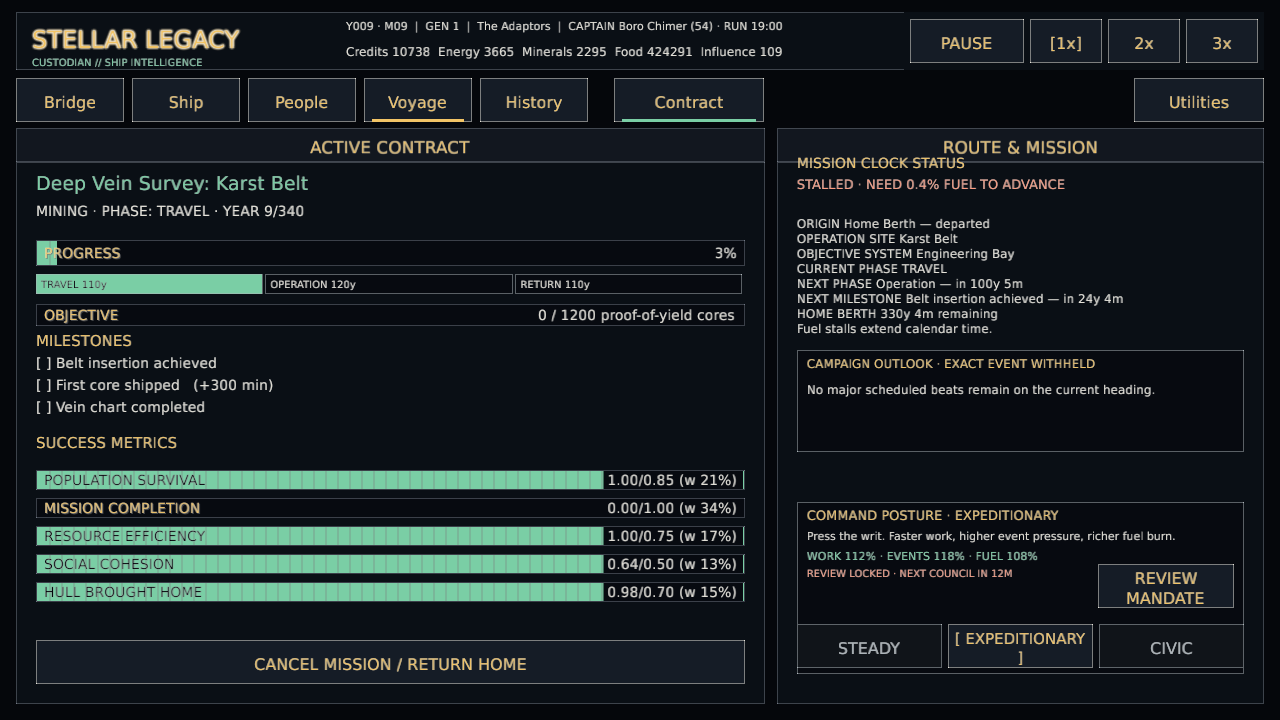
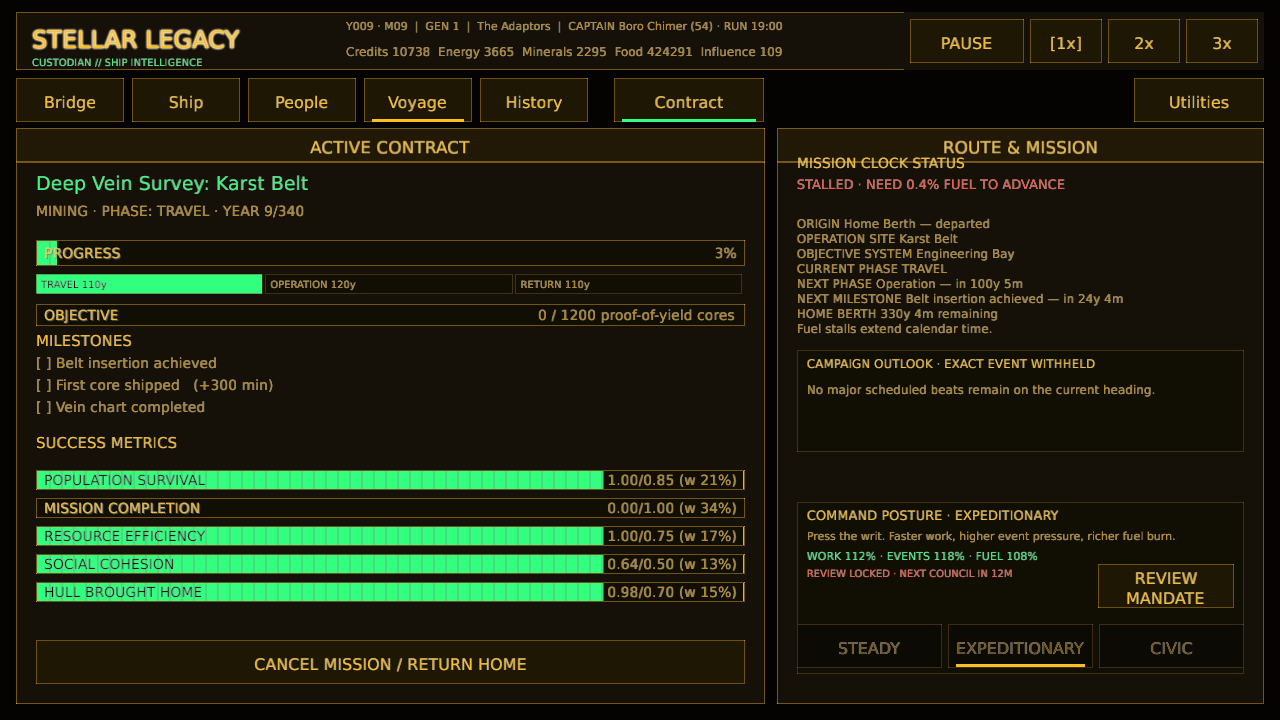
The council explains what each heading costs (command posture UX)
Phone policy controls offered the current posture again and did not explain
why alternatives were locked. Put a comparison behind a visible voyage
control, identify the current policy, explain the baseline and annual social
tradeoffs, and show the remaining commitment before proposing a change.
Desktop policy controls use the shared selection marker. Availability and
notifications share the same remaining-month calculation.

Five command tests and the source-size check pass; Clippy is warning-free.
Reviewed phone comparison and desktop captures. The no-argument publisher
passed Windows/WebGL packaging, Preview deployment and packaged smoke checks.

diff --git a/src/ui/mobile/voyage.rs b/src/ui/mobile/voyage.rs
@@ -1,7 +1,7 @@
 use super::*;
 use crate::simulation::{contract, market};
 
-pub(super) fn build(ctx: &GameplayCtx<'_>, f: &mut Form) {
+pub(super) fn build(ctx: &GameplayCtx<'_>, f: &mut Form, section: &str) {
     let sim = ctx.sim;
     if sim.contract.is_none() {
         f.actions(
@@ -14,6 +14,11 @@ pub(super) fn build(ctx: &GameplayCtx<'_>, f: &mut Form) {
     }
     if ctx.screen == Screen::Market {
         trade(ctx, f);
+        return;
+    }
+    if section == "posture" {
+        f.section("Back to voyage", "");
+        posture(ctx, f);
         return;
     }
     if let Some(c) = &sim.contract {
@@ -35,7 +40,7 @@ pub(super) fn build(ctx: &GameplayCtx<'_>, f: &mut Form) {
                 if m.reached { "Reached" } else { "Ahead" }
             ));
         }
-        posture(ctx, f);
+        posture_summary(ctx, f);
         if contract::can_return_home(sim) {
             f.action("Review return home", true, UiAction::ReviewReturnHome);
         }
@@ -106,7 +111,7 @@ pub(super) fn build(ctx: &GameplayCtx<'_>, f: &mut Form) {
             UiAction::Refuel,
         );
         f.action("PROVISIONS REVIEWED", true, UiAction::ReviewProvisions);
-        posture(ctx, f);
+        posture_summary(ctx, f);
         let conflicts = contract::obligation_conflicts(sim, t);
         for obligation in &conflicts {
             f.text(&format!(
@@ -170,23 +175,56 @@ pub(super) fn build(ctx: &GameplayCtx<'_>, f: &mut Form) {
     }
 }
 
+fn posture_summary(ctx: &GameplayCtx<'_>, f: &mut Form) {
+    f.heading(&format!(
+        "Command posture · {}",
+        ctx.sim.command_posture.label()
+    ));
+    f.text(ctx.sim.command_posture.description());
+    f.section("Compare command postures", "posture");
+}
+
 fn posture(ctx: &GameplayCtx<'_>, f: &mut Form) {
     f.heading(&format!(
         "Command posture · {}",
         ctx.sim.command_posture.label()
     ));
     f.action("REVIEW MANDATE", true, UiAction::OpenHelp);
+    let wait = crate::simulation::command::review_wait_months(ctx.sim);
+    if wait > 0 {
+        f.text(&format!("Current posture is committed. Another proposal becomes available in {wait} months. Advance voyage time to reach the next review."));
+    } else if ctx.sim.contract.is_some() {
+        f.text("A ratified change commits the ship for 12 months. The captain may require a mandate review before accepting a proposal.");
+    } else {
+        f.text("Postures can change freely in port. The captain may require a mandate review before accepting a proposal.");
+    }
+    f.text("Percentages compare each posture with STEADY at 100%. Work applies during operations; fuel use applies during travel.");
     for p in CommandPosture::ALL {
-        f.text(&format!(
-            "{} · Work {:.0}% · Event chance {:.0}% · Fuel use {:.0}%",
+        let current = p == ctx.sim.command_posture;
+        f.heading(&format!(
+            "{}{}",
             p.label(),
+            if current { " · Current" } else { "" }
+        ));
+        f.text(p.description());
+        f.text(&format!(
+            "Work {:.0}% · Event chance {:.0}% · Fuel use {:.0}%",
             crate::simulation::command::objective_factor(p) * 100.0,
             crate::simulation::command::event_chance_factor(p) * 100.0,
             crate::simulation::command::fuel_burn_factor(p) * 100.0
         ));
+        f.text(match p {
+            CommandPosture::Steady => "No additional annual social adjustment.",
+            CommandPosture::Expeditionary => "Each year underway, this posture also reduces morale, unity and legacy loyalty.",
+            CommandPosture::Civic => "Each year underway, this posture also improves morale, unity, stability and legacy loyalty.",
+        });
         f.action(
-            &format!("Propose {}", p.label()),
-            crate::simulation::command::posture_change_allowed(ctx.sim),
+            &format!(
+                "{} {}",
+                if current { "Current:" } else { "Propose" },
+                p.label()
+            ),
+            !current && wait == 0,
             UiAction::SetPosture(p),
         );
     }

diff --git a/src/ui/contract_systems/outlook.rs b/src/ui/contract_systems/outlook.rs
@@ -65,9 +65,7 @@ pub(crate) fn draw_posture(
         draw_ui_text_ex(
             &format!(
                 "REVIEW LOCKED · NEXT COUNCIL IN {}M",
-                ctx.sim
-                    .command_posture_locked_until
-                    .saturating_sub(ctx.sim.month_clock)
+                crate::simulation::command::review_wait_months(ctx.sim)
             ),
             rect.x + 10.0,
             rect.y + 75.0,
@@ -87,13 +85,11 @@ pub(crate) fn draw_posture(
             44.0,
         );
         let active = ctx.sim.command_posture == posture;
-        let label = if active {
-            format!("[ {} ]", posture.label())
-        } else {
-            posture.label().to_owned()
-        };
-        if term_button(button, &label, can_change || active, pointer) && !active && can_change {
+        if term_button(button, posture.label(), can_change && !active, pointer) {
             actions.push(UiAction::SetPosture(posture));
+        }
+        if active {
+            crate::ui::selection_marker(button);
         }
     }
 }

diff --git a/src/game/capture_scenes.rs b/src/game/capture_scenes.rs
@@ -464,7 +464,7 @@ impl Game {
                 gameplay.screen = Screen::Drydock;
                 self.state = crate::state::GameState::Gameplay(Box::new(gameplay));
             }
-            "contract_active" => {
+            "contract_active" | "posture" => {
                 // A charter a dozen years in, to show progress + drive assist.
                 let mut sim = SimState::new_campaign(
                     &self.data,
@@ -734,6 +734,7 @@ impl Game {
             _ => 0,
         });
         *self.presentation.mobile_section.borrow_mut() = match scene {
+            "posture" => "posture",
             "people_officers" => "officers",
             "people_factions" | "crew_recruitment" => "factions",
             "people_council" => "council",

diff --git a/src/simulation/command.rs b/src/simulation/command.rs
@@ -38,7 +38,17 @@ pub fn fuel_burn_factor(posture: CommandPosture) -> f32 {
 /// Whether the council can call a new posture review right now. Port is always
 /// flexible; an underway change is a once-per-year strategic commitment.
 pub fn posture_change_allowed(sim: &SimState) -> bool {
-    sim.contract.is_none() || sim.month_clock >= sim.command_posture_locked_until
+    review_wait_months(sim) == 0
+}
+
+/// Remaining commitment, with no lock while docked.
+pub fn review_wait_months(sim: &SimState) -> u32 {
+    if sim.contract.is_none() {
+        0
+    } else {
+        sim.command_posture_locked_until
+            .saturating_sub(sim.month_clock)
+    }
 }
 
 /// The next review date after an underway posture change.

diff --git a/src/game/actions/authority.rs b/src/game/actions/authority.rs
@@ -15,9 +15,7 @@ impl Game {
                 if let GameState::Gameplay(gameplay) = &mut self.state {
                     let sim = &mut gameplay.sim;
                     if !crate::simulation::command::posture_change_allowed(sim) {
-                        let months = sim
-                            .command_posture_locked_until
-                            .saturating_sub(sim.month_clock);
+                        let months = crate::simulation::command::review_wait_months(sim);
                         self.notifications
                             .warning(format!("Command review locked for {months} more months."));
                     } else if sim.command_posture != posture {

diff --git a/src/simulation/command/tests.rs b/src/simulation/command/tests.rs
@@ -88,6 +88,14 @@ fn underway_posture_reviews_are_once_per_year() {
     sim.command_posture_locked_until = next_review_month(&sim);
     assert_eq!(sim.command_posture_locked_until, 36);
     assert!(!posture_change_allowed(&sim));
+    assert_eq!(review_wait_months(&sim), 12);
+    sim.month_clock = 35;
+    assert_eq!(review_wait_months(&sim), 1);
     sim.month_clock = 36;
     assert!(posture_change_allowed(&sim));
+    assert_eq!(review_wait_months(&sim), 0);
+    sim.command_posture_locked_until = 100;
+    sim.contract = None;
+    assert!(posture_change_allowed(&sim));
+    assert_eq!(review_wait_months(&sim), 0);
 }

diff --git a/src/ui/mobile.rs b/src/ui/mobile.rs
@@ -211,7 +211,9 @@ pub fn draw_content(ctx: &GameplayCtx<'_>, view: Rect) -> Vec<UiAction> {
                 ship::build(ctx, &mut form, &section)
             }
             Screen::CrewDynasty => people::build(ctx, &mut form, &section),
-            Screen::Drydock | Screen::Contract | Screen::Market => voyage::build(ctx, &mut form),
+            Screen::Drydock | Screen::Contract | Screen::Market => {
+                voyage::build(ctx, &mut form, &section)
+            }
             Screen::Chronicle => history::build(ctx, &mut form, &section),
         }
         format!(

diff --git a/gdd.md b/gdd.md
@@ -278,6 +278,9 @@ Council choices select a response before explicit Commit; full consequences scro
 Return-home reviews share a scrolling consequence summary across display sizes.
 Keep voyaging, station navigation and Utilities close the review and release its
 temporary clock hold; the selected time speed is preserved.
+The phone posture comparison identifies the current policy, explains the 100%
+baseline and annual social tradeoffs, and shows months until another proposal
+is available. The current policy cannot be proposed again.
 The guide offers FINISH only after all lessons, including the council response,
 are complete. Its completion message is visible on desktop and phone; advancing
 a lesson returns a scrolling reading view to the next instruction.
